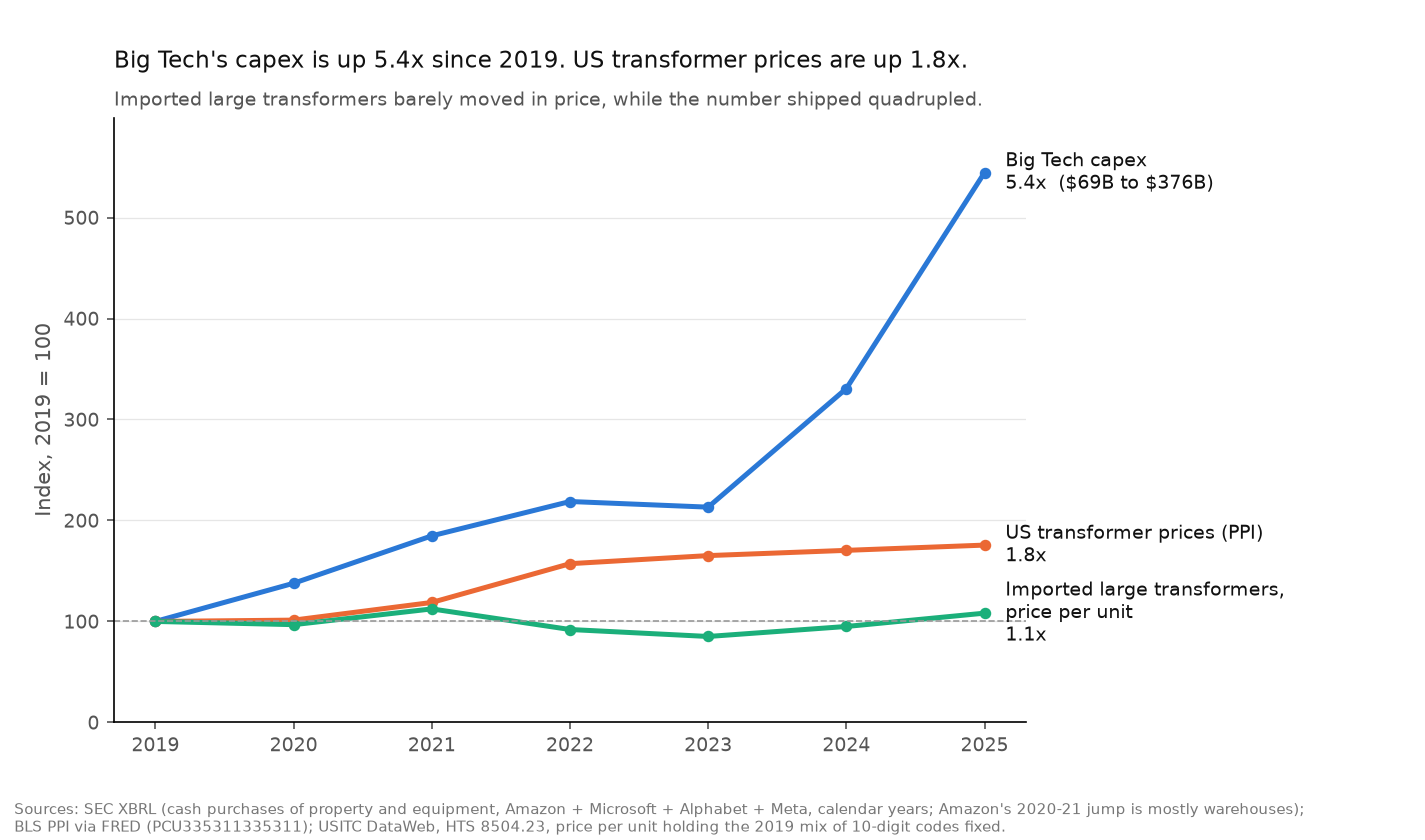
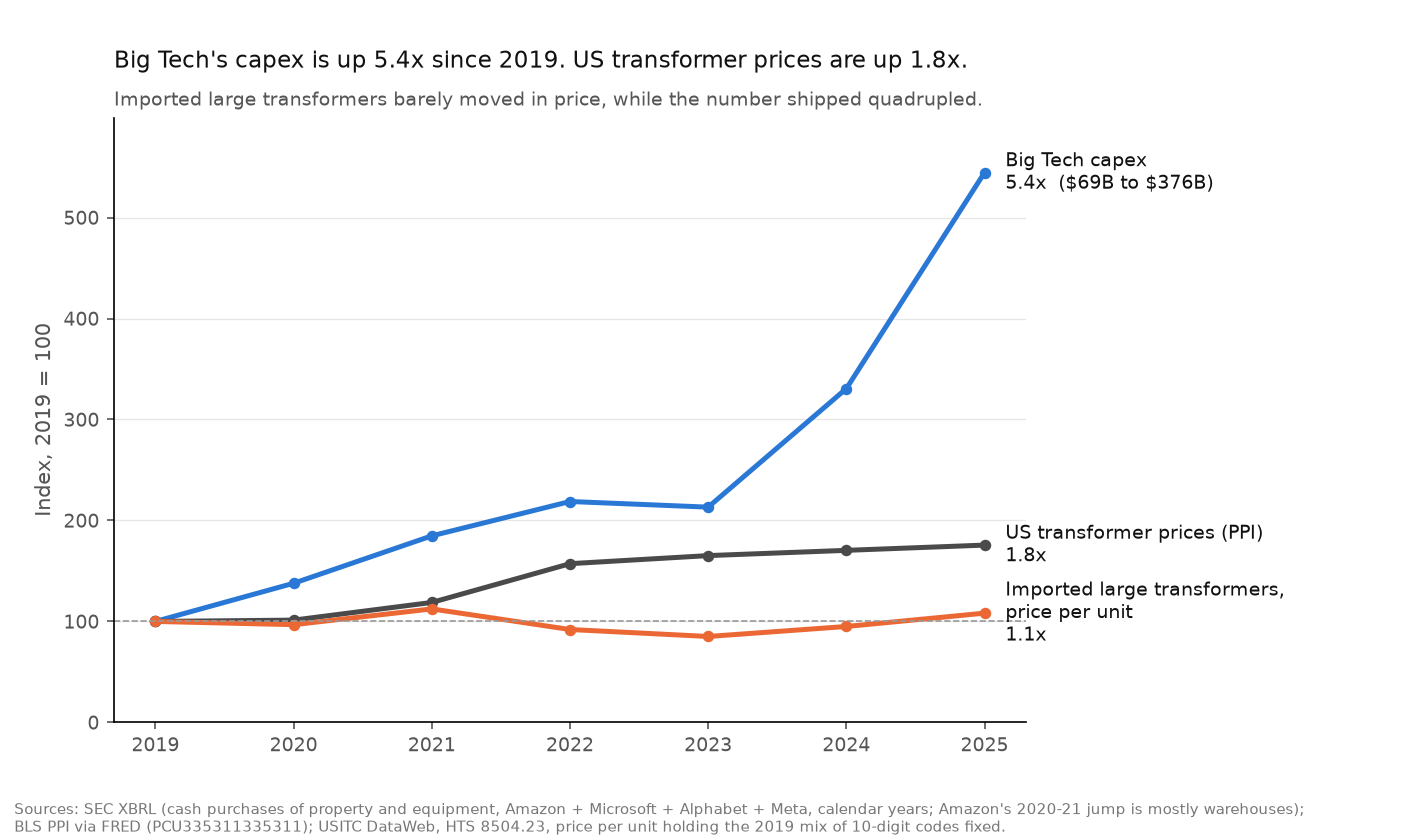
Day 13: shared chart style, capex small multiples, run_all, pinned requirements

diff --git a/src/capex.py b/src/capex.py
@@ -16,11 +16,13 @@ import ssl
 import urllib.request
 import certifi
 import pandas as pd
+import matplotlib.dates as mdates
 import matplotlib.pyplot as plt
+
+from style import INK, INK_2, BLUE, clean_axes, source_note
 
 ROOT = Path(__file__).resolve().parent.parent
 START = "2022-01-01"
-plt.rcParams["text.parse_math"] = False  # "$202B ... $36B" otherwise renders as math
 # Cash flow line "purchases of property and equipment". Amazon tags it differently.
 COMPANIES = {
     "Amazon": ("0001018724", "PaymentsToAcquireProductiveAssets"),
@@ -28,7 +30,6 @@ COMPANIES = {
     "Alphabet": ("0001652044", "PaymentsToAcquirePropertyPlantAndEquipment"),
     "Meta": ("0001326801", "PaymentsToAcquirePropertyPlantAndEquipment"),
 }
-COLORS = {"Amazon": "#2a78d6", "Microsoft": "#eb6834", "Alphabet": "#1baf7a", "Meta": "#6250d6"}
 
 
 def user_agent() -> str:
@@ -55,7 +56,7 @@ def company_facts(name: str, cik: str) -> dict:
     return json.loads(cache.read_text())
 
 
-def quarterly(facts: dict, tag: str) -> pd.Series:
+def quarterly(facts: dict, tag: str, start: str = START) -> pd.Series:
     """Quarterly values from a mix of 3-month, year-to-date and full-year facts.
 
     10-Q cash flow statements are year-to-date: the Q2 filing reports six
@@ -73,9 +74,9 @@ def quarterly(facts: dict, tag: str) -> pd.Series:
     out = {}
     for _, r in rows[rows.days.between(80, 100)].iterrows():
         out[r.end] = r.val
-    for start, grp in rows[rows.days > 100].groupby("start"):
+    for fy_start, grp in rows[rows.days > 100].groupby("start"):
         grp = grp.sort_values("end")
-        prev = rows[(rows.start == start) & rows.days.between(80, 100)]
+        prev = rows[(rows.start == fy_start) & rows.days.between(80, 100)]
         prev_end, prev_val = (prev.end.iloc[0], prev.val.iloc[0]) if len(prev) else (None, None)
         for _, r in grp.iterrows():
             # Only difference adjacent periods; a skipped quarter would make a 6-month "quarter"
@@ -84,30 +85,31 @@ def quarterly(facts: dict, tag: str) -> pd.Series:
                 out[r.end] = r.val - prev_val
             prev_end, prev_val = r.end, r.val
     s = pd.Series(out).sort_index()
-    return s[s.index >= START]
+    return s[s.index >= start]
 
 
 def chart(q: pd.DataFrame, dest: Path) -> None:
-    fig, ax = plt.subplots(figsize=(9, 5), dpi=150)
-    for name in COMPANIES:
+    """One panel per company on a shared scale. Four colored lines fail the colorblind check."""
+    fig, axes = plt.subplots(1, 4, figsize=(11, 4.4), dpi=150, sharey=True)
+    for ax, name in zip(axes, COMPANIES):
         y = q[name] / 1e9
-        ax.plot(y.index, y.values, color=COLORS[name], linewidth=2, marker="o", markersize=4)
-        ax.annotate(f"{name}  ${y.iloc[-1]:.1f}B", (y.index[-1], y.iloc[-1]), xytext=(8, 0),
-                    textcoords="offset points", va="center", fontsize=9, color="#111111")
-    total = q.iloc[-1].sum() / 1e9
-    first = q.iloc[0].sum() / 1e9
-    ax.set_title(f"The four biggest cloud companies spent ${total:.0f}B on capex last quarter, "
-                 f"vs ${first:.0f}B in early 2022", loc="left", fontsize=10.5, color="#111111")
-    ax.set_ylim(bottom=0)
-    ax.yaxis.set_major_formatter(lambda v, _: f"${v:.0f}B")
-    ax.grid(axis="y", color="#e6e6e6", linewidth=0.6)
-    for side in ("top", "right"):
-        ax.spines[side].set_visible(False)
-    ax.tick_params(colors="#555555", labelsize=9)
-    fig.text(0.01, 0.01, "Source: SEC XBRL company facts, cash flow statement purchases of property and "
-             "equipment. Quarters derived from year-to-date filings. Excludes leases.",
-             fontsize=7, color="#777777")
-    fig.subplots_adjust(right=0.8, bottom=0.12)
+        ax.plot(y.index, y.values, color=BLUE, linewidth=2, marker="o", markersize=3)
+        ax.annotate(f"${y.iloc[-1]:.0f}B", (y.index[-1], y.iloc[-1]), xytext=(-4, 6),
+                    textcoords="offset points", ha="right", fontsize=9, color=INK)
+        ax.set_title(name, loc="left", fontsize=10, color=INK)
+        ax.set_xticks(pd.to_datetime(["2022-06-30", "2024-06-30", "2026-06-30"]))
+        ax.xaxis.set_major_formatter(lambda v, _: f"{mdates.num2date(v).year}")
+        clean_axes(ax)
+    axes[0].set_ylim(bottom=0)
+    axes[0].yaxis.set_major_formatter(lambda v, _: f"${v:.0f}B")
+    total, first = q.iloc[-1].sum() / 1e9, q.iloc[0].sum() / 1e9
+    fig.suptitle(f"The four biggest cloud companies spent ${total:.0f}B on capex last quarter, vs ${first:.0f}B in early 2022",
+                 x=0.01, ha="left", fontsize=11, color=INK)
+    fig.text(0.01, 0.9, "Quarterly cash purchases of property and equipment, same scale in every panel.",
+             fontsize=8.5, color=INK_2)
+    source_note(fig, "Source: SEC XBRL company facts, cash flow statements. Quarters derived from year-to-date "
+                "filings. Excludes leases. Amazon's figure is gross of equipment-sale proceeds.")
+    fig.subplots_adjust(left=0.06, right=0.99, top=0.8, bottom=0.12, wspace=0.12)
     fig.savefig(dest)
 
 

diff --git a/src/main_chart.py b/src/main_chart.py
@@ -14,19 +14,18 @@ from pathlib import Path
 import pandas as pd
 import matplotlib.pyplot as plt
 
+from style import INK, INK_2, MUTED, GRID, CAPEX, PPI, LARGE_UNITS
+
 import capex
 
 ROOT = Path(__file__).resolve().parent.parent
-plt.rcParams["text.parse_math"] = False
 BASE = 2019
 YEARS = range(2019, 2026)
-INK, INK_2, MUTED, GRID = "#111111", "#555555", "#777777", "#e6e6e6"
 
 
 def hyperscaler_capex() -> pd.Series:
     """Calendar-year cash capex for Amazon, Microsoft, Alphabet and Meta combined."""
-    capex.START = "2018-01-01"  # the default starts in 2022
-    q = pd.DataFrame({n: capex.quarterly(capex.company_facts(n, cik), tag)
+    q = pd.DataFrame({n: capex.quarterly(capex.company_facts(n, cik), tag, start="2018-01-01")
                       for n, (cik, tag) in capex.COMPANIES.items()})
     full = q.groupby(q.index.year).count().eq(4).all(axis=1)  # only years with all 16 quarters
     annual = q.groupby(q.index.year).sum().sum(axis=1)
@@ -47,9 +46,9 @@ def build() -> pd.DataFrame:
 
 def chart(d: pd.DataFrame, dest: Path) -> None:
     lines = [
-        ("capex_index", "Big Tech capex", "#2a78d6"),
-        ("ppi_index", "US transformer prices (PPI)", "#eb6834"),
-        ("import_large_index", "Imported large transformers,\nprice per unit", "#1baf7a"),
+        ("capex_index", "Big Tech capex", CAPEX),
+        ("ppi_index", "US transformer prices (PPI)", PPI),
+        ("import_large_index", "Imported large transformers,\nprice per unit", LARGE_UNITS),
     ]
     fig, ax = plt.subplots(figsize=(9.5, 5.6), dpi=150)
     for col, label, color in lines:
@@ -80,6 +79,7 @@ def chart(d: pd.DataFrame, dest: Path) -> None:
 
 if __name__ == "__main__":
     d = build()
+    d.index.name = "year"
     d.round(3).to_csv(ROOT / "data/clean/main_index.csv")
     chart(d, ROOT / "charts/main_chart.png")
     print(d.assign(capex_usd=(d.capex_usd / 1e9).round(1)).round(1).to_string())

diff --git a/src/style.py b/src/style.py
@@ -1,0 +1,35 @@
+# ==============================================================================
+# Script: style.py
+# Project: Grid Bottleneck - Shared chart style
+# Objective: One place for text colors, the three series colors, and the axis
+#            styling every chart uses. Importing it also turns off matplotlib's
+#            math parsing, so labels like "$69B to $376B" print as written.
+# ==============================================================================
+
+import matplotlib.pyplot as plt
+
+plt.rcParams["text.parse_math"] = False
+
+INK, INK_2, MUTED, GRID = "#111111", "#555555", "#777777", "#e6e6e6"
+US_GRAY = "#999999"  # comparison lines (the US, a 2019 = 100 baseline)
+# These three pass the colorblind check against each other in any combination.
+# A fourth series goes in its own panel instead of getting a fourth color.
+BLUE, ORANGE, AQUA = "#2a78d6", "#eb6834", "#1baf7a"
+# Same thing, same color in every chart
+CAPEX = BLUE                # Big Tech capex
+PPI = "#4a4a4a"             # US transformer producer price index (benchmark line)
+SMALL_UNITS = AQUA          # imported small transformers
+LARGE_UNITS = ORANGE        # imported large transformers
+
+
+def clean_axes(ax, grid_axis: str = "y", labelsize: float = 8) -> None:
+    for side in ("top", "right"):
+        ax.spines[side].set_visible(False)
+    ax.tick_params(colors=INK_2, labelsize=labelsize)
+    if grid_axis:
+        ax.grid(axis=grid_axis, color=GRID, linewidth=0.6)
+        ax.set_axisbelow(True)
+
+
+def source_note(fig, text: str, y: float = 0.01) -> None:
+    fig.text(0.01, y, text, fontsize=7, color=MUTED)

diff --git a/src/suppliers_tariffs.py b/src/suppliers_tariffs.py
@@ -14,9 +14,10 @@ from pathlib import Path
 import pandas as pd
 import matplotlib.pyplot as plt
 
+from style import INK, INK_2, MUTED, GRID
+
 ROOT = Path(__file__).resolve().parent.parent
 YEARS = range(2015, 2026)
-INK, INK_2, MUTED, GRID = "#111111", "#555555", "#777777", "#e6e6e6"
 
 EUROPE = {
     "Austria", "Netherlands", "Germany", "Croatia", "Spain", "Poland", "Italy",
@@ -78,11 +79,11 @@ def chart_share(share: pd.DataFrame, dest: Path) -> None:
     style(ax, "Share of import value")
     ax.set_title("China supplies about 2% of large US transformer imports. Mexico, Korea and Europe supply most.",
                  loc="left", fontsize=10.5, color=INK)
-    ax.text(0, -0.13, "EO 14421 (signed August 26, 2026) lets DOE block grid equipment tied to countries under US "
+    ax.text(0, -0.2, "EO 14421 (signed August 26, 2026) lets DOE block grid equipment tied to countries under US\n"
             "arms embargoes, including China. This data ends in 2025.", transform=ax.transAxes, fontsize=8, color=INK_2)
     source(fig, "Source: USITC DataWeb, imports for consumption, HTS 8504.23 (liquid-dielectric transformers "
            "over 10,000 kVA), share of customs value.")
-    fig.subplots_adjust(right=0.8, bottom=0.17)
+    fig.subplots_adjust(right=0.8, bottom=0.22)
     fig.savefig(dest)
 
 

diff --git a/src/run_all.py b/src/run_all.py
@@ -1,0 +1,34 @@
+# ==============================================================================
+# Script: run_all.py
+# Project: Grid Bottleneck - Rebuild every table and chart in order
+# Usage:   cd src && ../.venv/bin/python run_all.py
+# Needs:   data/raw/dataweb_hts10.xlsx (exported by hand, see README) and
+#          SEC_USER_AGENT in .env. Everything else downloads or is in data/raw.
+# ==============================================================================
+
+from pathlib import Path
+import subprocess
+import sys
+
+HERE = Path(__file__).resolve().parent
+# Order matters: prices.py reads load_dataweb's output, main_chart reads prices'.
+STEPS = [
+    "load_dataweb.py",
+    "prices.py",
+    "suppliers_tariffs.py",
+    "capex.py",
+    "peers.py",
+    "lease_notes.py",
+    "check_capex.py",
+    "queues.py",
+    "electricity.py",
+    "main_chart.py",
+]
+
+if __name__ == "__main__":
+    for step in STEPS:
+        print(f"\n=== {step}")
+        result = subprocess.run([sys.executable, "-W", "ignore", step], cwd=HERE)
+        if result.returncode != 0:
+            sys.exit(f"{step} failed; stopping.")
+    print("\nAll steps finished.")

diff --git a/src/lease_notes.py b/src/lease_notes.py
@@ -20,6 +20,10 @@ import time
 import urllib.request
 
 import certifi
+import matplotlib.dates as mdates
+import matplotlib.pyplot as plt
+
+import style  # noqa: F401  (turns off math parsing so "$" prints as written)
 import pandas as pd
 
 from capex import user_agent
@@ -107,8 +111,6 @@ def extract(name: str, text: str) -> tuple[float, str] | None:
     return None
 
 def chart(a: "pd.DataFrame", dest: Path) -> None:
-    import matplotlib.pyplot as plt
-    plt.rcParams["text.parse_math"] = False
     order = ["Microsoft", "Meta", "Oracle", "Amazon", "Alphabet", "CoreWeave"]
     a = a.assign(period=pd.to_datetime(a.period))
     fig, axes = plt.subplots(2, 3, figsize=(11, 6), dpi=150, sharey=True, sharex=True)
@@ -122,7 +124,6 @@ def chart(a: "pd.DataFrame", dest: Path) -> None:
         ax.tick_params(colors="#555555", labelsize=8)
         for side in ("top", "right"):
             ax.spines[side].set_visible(False)
-    import matplotlib.dates as mdates
     for ax in axes[:, 0]:
         ax.yaxis.set_major_formatter(lambda v, _: f"${v:.0f}B")
     axes[0, 0].xaxis.set_major_locator(mdates.YearLocator())

diff --git a/src/prices.py b/src/prices.py
@@ -11,6 +11,9 @@ from pathlib import Path
 import pandas as pd
 import matplotlib.pyplot as plt
 
+from style import PPI, SMALL_UNITS, LARGE_UNITS
+
+
 ROOT = Path(__file__).resolve().parent.parent
 BASE = 2019
 YEARS = range(2015, 2026)  # 2026 import data isn't a full year yet
@@ -56,9 +59,9 @@ def import_indexes(d: pd.DataFrame) -> pd.DataFrame:
 def chart(idx: pd.DataFrame, dest: Path) -> None:
     # The industry PPI is complete; the commodity PPI is missing most of 2023-24
     lines = [
-        ("PCU335311335311", "US producer price index", "#2a78d6"),
-        ("import_small_fixed_mix", "Imported small units (≤650 kVA)", "#1baf7a"),
-        ("import_large_fixed_mix", "Imported large units (>10,000 kVA)", "#eb6834"),
+        ("PCU335311335311", "US producer price index", PPI),
+        ("import_small_fixed_mix", "Imported small units (≤650 kVA)", SMALL_UNITS),
+        ("import_large_fixed_mix", "Imported large units (>10,000 kVA)", LARGE_UNITS),
     ]
     fig, ax = plt.subplots(figsize=(9, 5.2), dpi=150)
     for col, label, color in lines:

diff --git a/src/queues.py b/src/queues.py
@@ -17,13 +17,13 @@ from pathlib import Path
 import pandas as pd
 import matplotlib.pyplot as plt
 
+from style import INK, INK_2, MUTED, GRID
+
 ROOT = Path(__file__).resolve().parent.parent
 SRC = ROOT / "data/raw/lbnl_ix_queue_data_file_thru2025.xlsx"
-plt.rcParams["text.parse_math"] = False
 STATES = {"VA": "Virginia (PJM)", "TX": "Texas (mostly ERCOT)", "AZ": "Arizona (West)", "OR": "Oregon (West)"}
 YEARS = range(2015, 2026)
 TYPES = ["Solar", "Battery", "Wind", "Gas"]  # everything else is "Other"
-INK, INK_2, MUTED, GRID = "#111111", "#555555", "#777777", "#e6e6e6"
 
 
 def load_projects() -> pd.DataFrame:

diff --git a/src/electricity.py b/src/electricity.py
@@ -18,12 +18,12 @@ from pathlib import Path
 import pandas as pd
 import matplotlib.pyplot as plt
 
+from style import INK, INK_2, MUTED, GRID
+
 ROOT = Path(__file__).resolve().parent.parent
-plt.rcParams["text.parse_math"] = False
 STATES = {"VA": "Virginia", "TX": "Texas", "AZ": "Arizona", "OR": "Oregon"}
 YEARS = range(2015, 2026)
 BASE = 2019
-INK, INK_2, MUTED, GRID = "#111111", "#555555", "#777777", "#e6e6e6"
 SECTORS = ["res", "com", "ind", "trn", "tot"]
 
 

diff --git a/src/peers.py b/src/peers.py
@@ -13,10 +13,10 @@ from pathlib import Path
 import pandas as pd
 import matplotlib.pyplot as plt
 
+import style  # noqa: F401  (turns off math parsing so "$" prints as written)
 from capex import company_facts, LEASE_TAGS
 
 ROOT = Path(__file__).resolve().parent.parent
-plt.rcParams["text.parse_math"] = False
 CASH = "PaymentsToAcquirePropertyPlantAndEquipment"
 PEERS = {
     # name: (cik, cash capex tag, group)

diff --git a/log.md b/log.md
@@ -17,3 +17,4 @@
 - **2026-10-30 (Day 11).** Checked every reported number in the plan; table in `notes/fact_check.md`, and the plan's "What's already reported" section is rewritten. Corrections: the order is **EO 14421** (first numbered 14420) and targets "covered foreign entities" (countries under US arms embargoes, including China), not "foreign adversaries"; Wood Mackenzie's distribution deficit is 6%, not 10%; power transformer demand +116%, not 119%; NREL's report says prices rose 4 to 9 times over 3 years (its summary page says 5 to 6 over 2). Cut for lack of a source: 2026 15% shortfall, "EHV up to five years," "$200-300B idle chips," Anthropic's "85% gross margin," and the "$637B" commitments figure. Added: Wood Mackenzie says power transformer prices are up 77% since 2019, which matches the BLS PPI (+76%). Section 232 covers transformer cores and laminations since Aug 15, 2025; no source on finished units. Renamed the EO in the supplier chart note and plan files.
 - **2026-10-30 (Day 12).** Wrote the finding and rebuilt the README (question, results, data, method, limits, how to run). Finding: the big four have about $1 trillion of signed leases not yet started (from $168B in mid-2024; $1.34T with Oracle and CoreWeave), while PJM's wait to connect new power doubled to 6.9 years. Picked this over a transformer-price lead because the transformer data shows supply stretching through imports (4x units, flat prices), so it isn't the cleanest bottleneck evidence.
   Added a limit: lease notes don't name end customers; much of the backlog likely serves OpenAI and Anthropic (ties from Microsoft, Amazon, CoreWeave 10-Qs and the Anthropic S-1). xAI isn't in any of the filings.
+- **2026-10-30 (Day 13).** Polish. Capex quarterly chart is now one panel per company (four colored lines failed the colorblind check). Moved shared colors and axis styling into `src/style.py`, with one color per thing across all charts: capex blue, US price index dark gray, small imports aqua, large imports orange. Replaced the `capex.START` override with a `start` parameter; that exposed a bug where the loop variable `start` shadowed the parameter, now fixed. Added `src/run_all.py` (rebuilds everything in order) and pinned versions in `requirements.txt`. Full rebuild reproduces every clean CSV unchanged. Wrapped the EO note on the supplier chart.

diff --git a/README.md b/README.md
@@ -68,18 +68,10 @@ Notes on the Amazon Q3 2026 call are in `notes/amazon_q3_2026_call.md`. Every ou
 ```bash
 python3 -m venv .venv && .venv/bin/pip install -r requirements.txt
 echo 'SEC_USER_AGENT="Your Name you@example.com"' > .env   # the SEC requires contact info
-cd src
-python load_dataweb.py     # needs the DataWeb export in data/raw (see below)
-python prices.py
-python suppliers_tariffs.py
-python capex.py
-python peers.py
-python lease_notes.py      # downloads ~110 filings, a few minutes
-python check_capex.py
-python queues.py
-python electricity.py
-python main_chart.py
+cd src && ../.venv/bin/python run_all.py                   # about 5 minutes; downloads ~110 filings the first time
 ```
+
+`run_all.py` runs every script in order and stops at the first failure. Shared colors and chart styling live in `src/style.py`.
 
 The DataWeb file has to be exported by hand: imports for consumption, HTS items, customs value + calculated duties + first unit of quantity, annual 2015 to 2025, all countries broken out, commodities `850421, 850422, 850423` broken out at 10 digits. Save it as `data/raw/dataweb_hts10.xlsx`.
 
